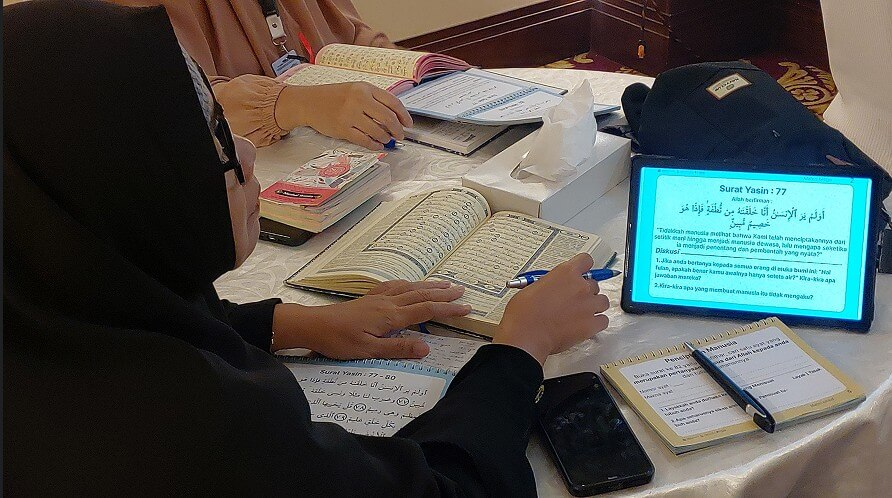
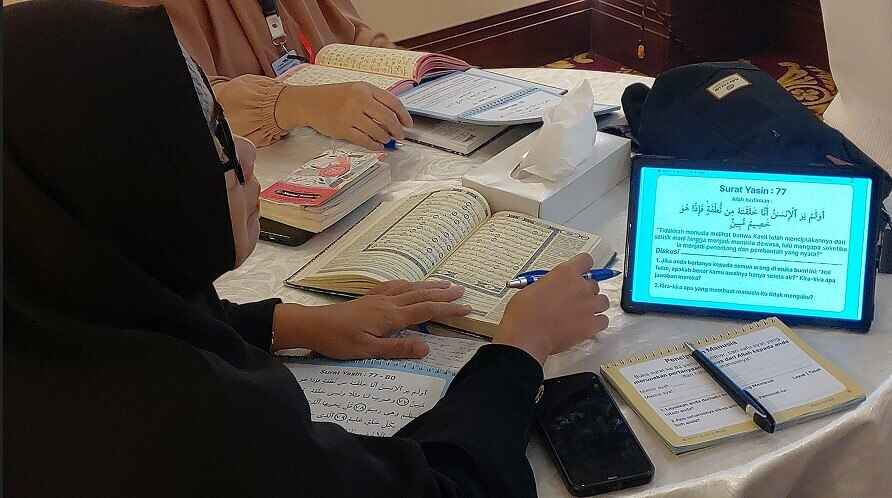
optimize images

diff --git a/src/components/HomePage/Programs/Programs.jsx b/src/components/HomePage/Programs/Programs.jsx
@@ -9,7 +9,7 @@ import Seminar from "../../../assets/imgs/homepage/programs/seminar.jpg";
 import Pelatihan from "../../../assets/imgs/homepage/programs/pelatihan.jpg";
 import Majelis from "../../../assets/imgs/homepage/hero.jpg";
 import Karya from "../../../assets/imgs/homepage/programs/karya.jpg";
-import Umrah from "../../../assets/imgs/homepage/programs/umrah.jpg";
+import Umrah from "../../../assets/imgs/homepage/gallery/umrah/umrah2.jpg";
 
 const programs = [
   {
